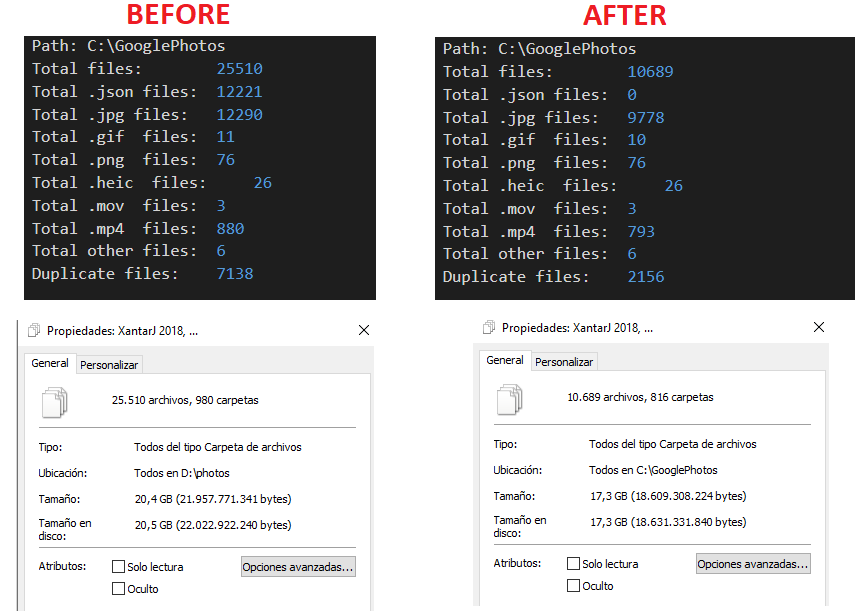
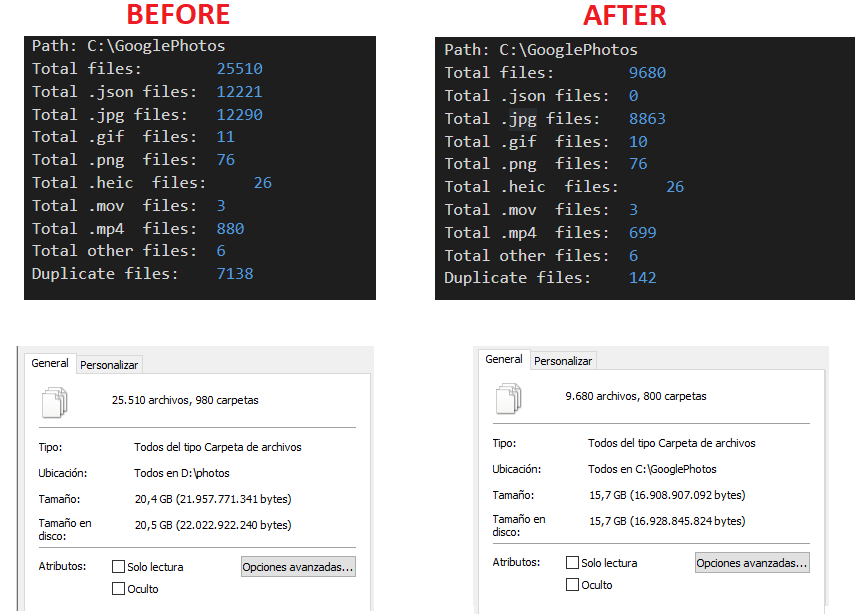
fix

diff --git a/Program.cs b/Program.cs
@@ -36,7 +36,7 @@ namespace CleanGooglePhotosTakeOut
             //Check again
             WriteLine($"======================================= ");
             WriteLine($"============= Check process =========== ");
-            WriteInfoProcess(dirInfo);
+            WriteInfoProcess(dirInfo, true);
 
             logWriter.Dispose();
         }
@@ -58,10 +58,10 @@ namespace CleanGooglePhotosTakeOut
 
             WriteLine();
             WriteLine("Removing duplicated files:");
-            Regex regexTimelineOpt1 = new Regex(@"^(19[5-9][0-9]|20[0-4][0-9]|2050)-([0-1][1-9])-([0-3][0-9])$");   //yyyy-mm-dd 
-            Regex regexTimelineOpt2 = new Regex(@"^(19[5-9][0-9]|20[0-4][0-9]|2050)-([0-1][1-9])-([0-3][0-9])-([0-3][0-9])$");   //yyyy-mm-dd-dd 
-            Regex regexTimelineOpt3 = new Regex(@"^(19[5-9][0-9]|20[0-4][0-9]|2050)-([0-1][1-9])-([0-3][0-9]) - ([0-1][1-9])-([0-3][0-9])$");   //yyyy-mm-dd - mm-dd
-            Regex regexTimelineOpt4 = new Regex(@"^(19[5-9][0-9]|20[0-4][0-9]|2050)-([0-1][1-9])-([0-3][0-9]) (#[1-9])$");   //yyyy-mm-dd #2 
+            Regex regexTimelineOpt1 = new Regex(@"^(19[5-9][0-9]|20[0-4][0-9]|2050)-([0-1][0-9])-([0-3][0-9])$");   //yyyy-mm-dd 
+            Regex regexTimelineOpt2 = new Regex(@"^(19[5-9][0-9]|20[0-4][0-9]|2050)-([0-1][0-9])-([0-3][0-9])-([0-3][0-9])$");   //yyyy-mm-dd-dd 
+            Regex regexTimelineOpt3 = new Regex(@"^(19[5-9][0-9]|20[0-4][0-9]|2050)-([0-1][0-9])-([0-3][0-9]) - ([0-1][1-9])-([0-3][0-9])$");   //yyyy-mm-dd - mm-dd
+            Regex regexTimelineOpt4 = new Regex(@"^(19[5-9][0-9]|20[0-4][0-9]|2050)-([0-1][0-9])-([0-3][0-9]) (#[1-9])$");   //yyyy-mm-dd #2 
             var countRemovedDuplicate = 0;
 
             foreach (var file in duplicates) {
@@ -74,9 +74,10 @@ namespace CleanGooglePhotosTakeOut
                     // folder timeline
                     var theDuplicates= files.Where(f => f.Name == file.Name && f.FullName != file.FullName);
                     var existInAlbum = theDuplicates.Any( d => !regexTimelineOpt1.IsMatch(d.Directory.Name) 
-                                                            && !regexTimelineOpt2.IsMatch(nameParentDir)
-                                                            && !regexTimelineOpt3.IsMatch(nameParentDir)
-                                                            && !regexTimelineOpt4.IsMatch(nameParentDir));
+                                                            && !regexTimelineOpt2.IsMatch(d.Directory.Name)
+                                                            && !regexTimelineOpt3.IsMatch(d.Directory.Name)
+                                                            && !regexTimelineOpt4.IsMatch(d.Directory.Name));                                                            
+                    
                     if(existInAlbum){
                         DeleteFile(file, "Exist in album - ");
                         countRemovedDuplicate++;
@@ -101,7 +102,7 @@ namespace CleanGooglePhotosTakeOut
             }
         }
 
-        private static void WriteInfoProcess(DirectoryInfo dirInfo){
+        private static void WriteInfoProcess(DirectoryInfo dirInfo, bool logDuplicates = false){
             var files = dirInfo.GetFiles("*", SearchOption.AllDirectories);
             var duplicates = GetDuplicateFiles(files);
             WriteLine($"Path: {dirInfo.FullName}");
@@ -119,7 +120,14 @@ namespace CleanGooglePhotosTakeOut
             WriteLine("Extensions:");
             foreach (var extension in files.Select(z=>z.Extension).Distinct()) {
                 WriteLine(extension);    
+            }            
+
+            if(logDuplicates){
+                WriteToFileLog("List duplicate files: ");
+                foreach (var file in duplicates)
+                    WriteToFileLog(file.FullName);
             }
+                
         }
 
         private static void WriteLine (string text = "", ConsoleColor color = ConsoleColor.White){
@@ -160,7 +168,9 @@ namespace CleanGooglePhotosTakeOut
             {
                 if(regexDotNumber.IsMatch(file.Extension)){
                     WriteLine($"File extension fixed: {file.Name} to {file.Name}.jpg");
-                    file.MoveTo(file.FullName + ".jpg");
+                    var newFileName = file.FullName + ".jpg";
+                    if(File.Exists(newFileName)) File.Delete(newFileName);
+                    file.MoveTo(newFileName);
                 }    
             }
         }

diff --git a/README.md b/README.md
@@ -29,3 +29,5 @@ View the log file generate with the result.
 
 ## Sample results
 ![after_beafore.png](after_before.png)
+
+Note: I had 142 files duplicates because one album was duplicates with different name.
